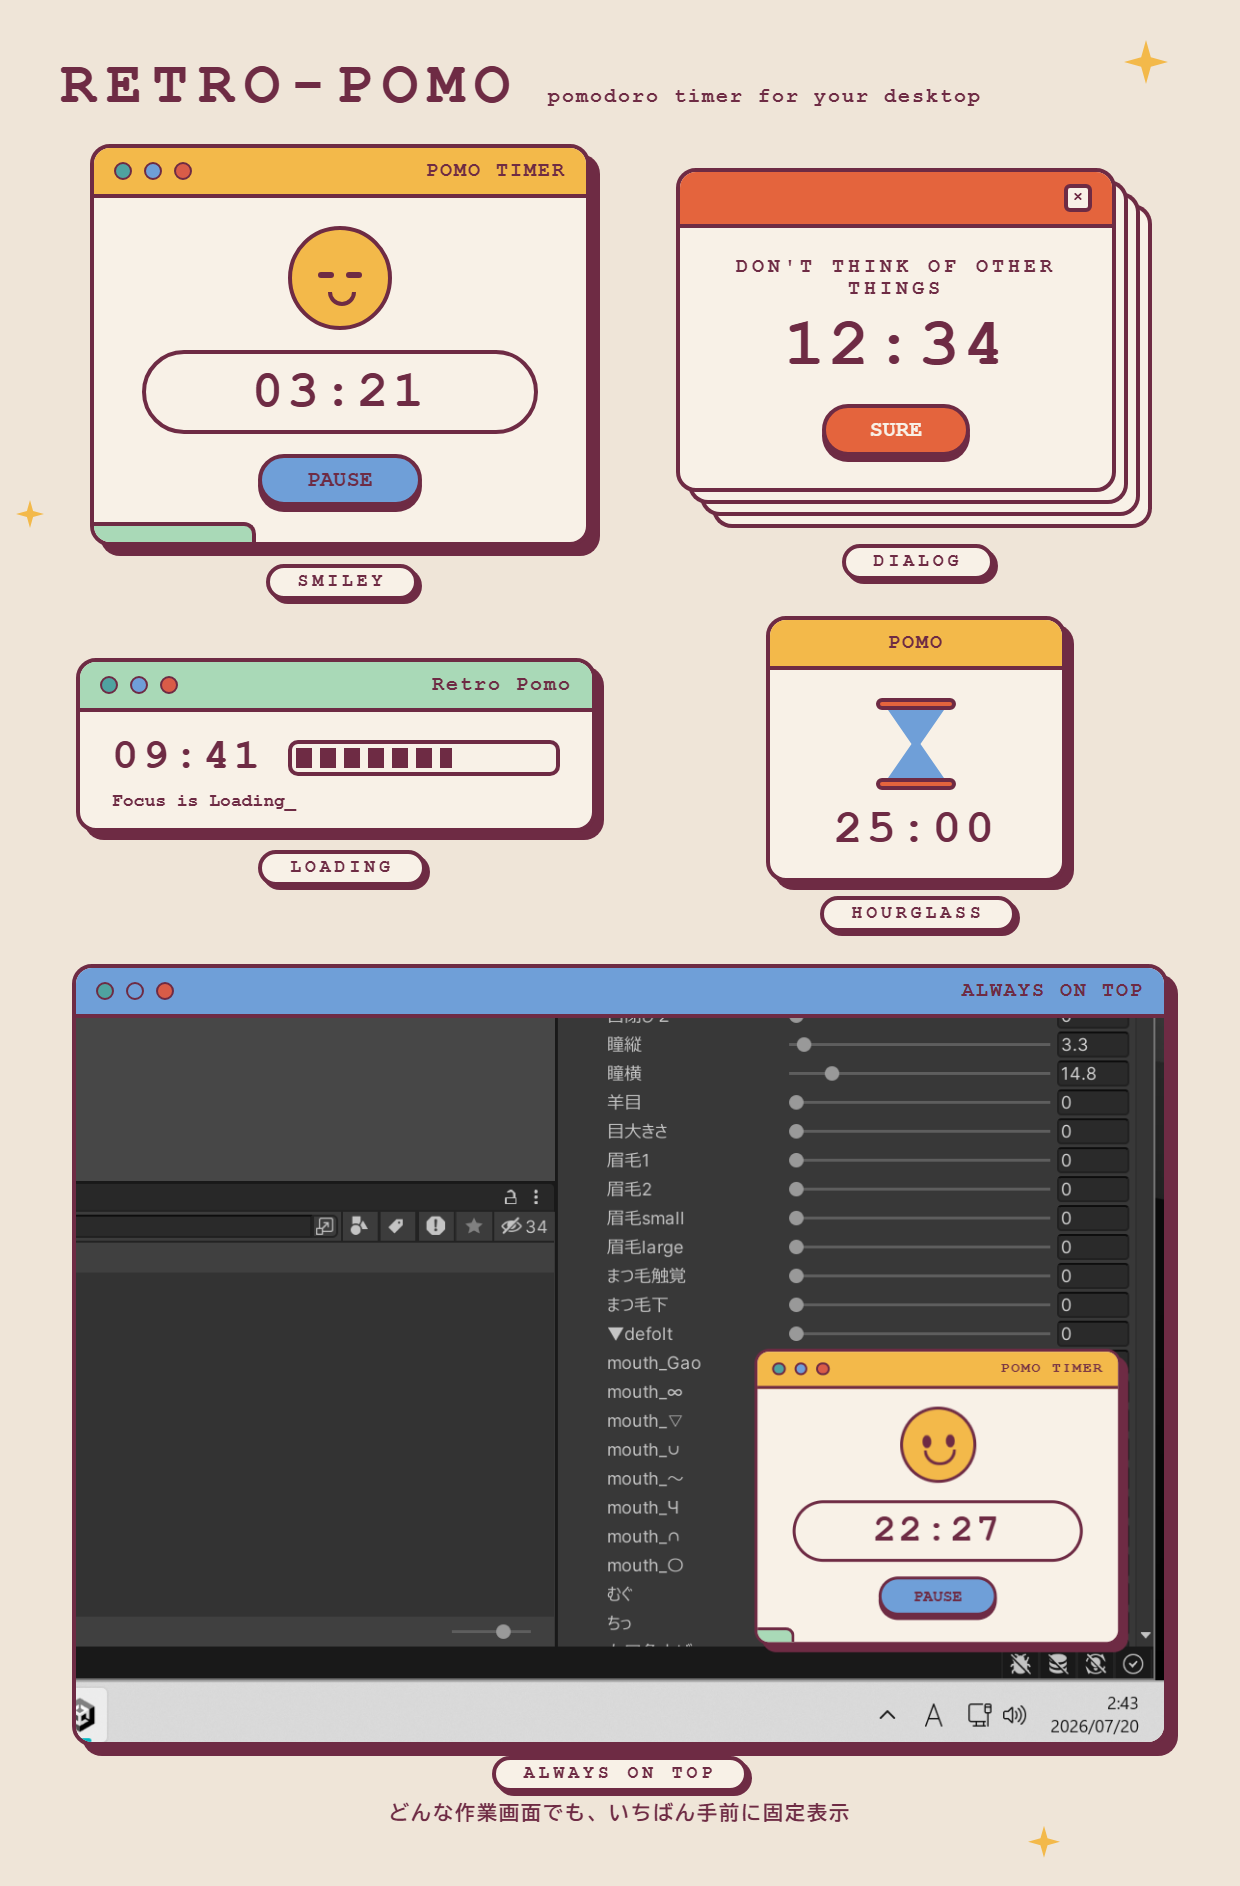
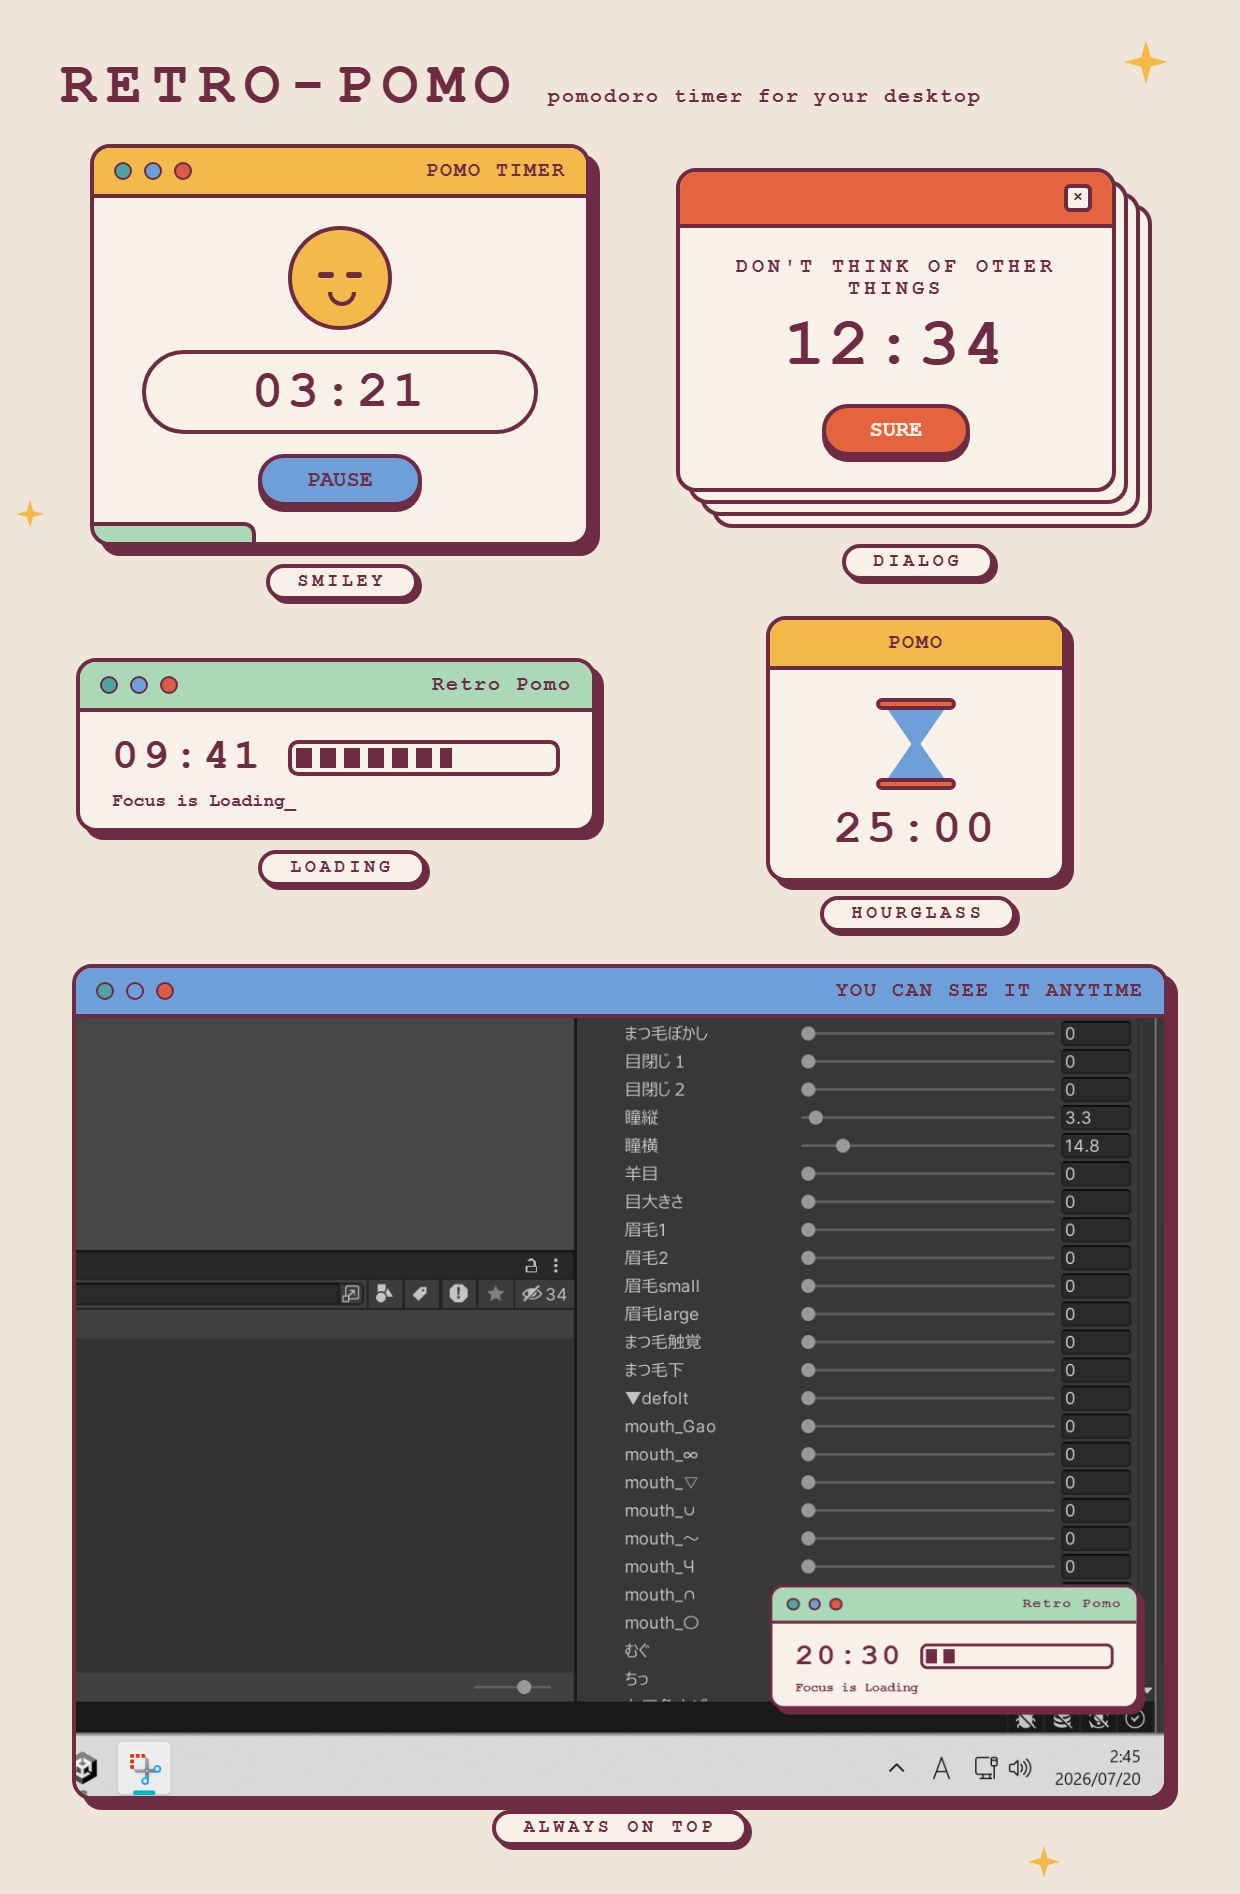
feat: promo shot swapped to Loading-skin capture, English caption in titlebar

Changed region(s): [[0.0613, 0.123, 0.95, 0.9841], [0.0613, 0.6151, 0.4597, 0.7073], [0.8581, 0.0923, 0.8887, 0.123]]

diff --git a/src/promo/PromoGrid.tsx b/src/promo/PromoGrid.tsx
@@ -55,12 +55,11 @@ export function PromoGrid() {
           <div className="retro-win shot-win">
             <div className="titlebar">
               <TitleDots />
-              <span className="titlebar-text">ALWAYS ON TOP</span>
+              <span className="titlebar-text">YOU CAN SEE IT ANYTIME</span>
             </div>
             <img src={shot} alt="Unityでの作業中も最前面に表示されるretro-pomo" />
           </div>
           <figcaption className="promo-tag">ALWAYS ON TOP</figcaption>
-          <p className="promo-note">どんな作業画面でも、いちばん手前に固定表示</p>
         </figure>
       </div>
     </div>
